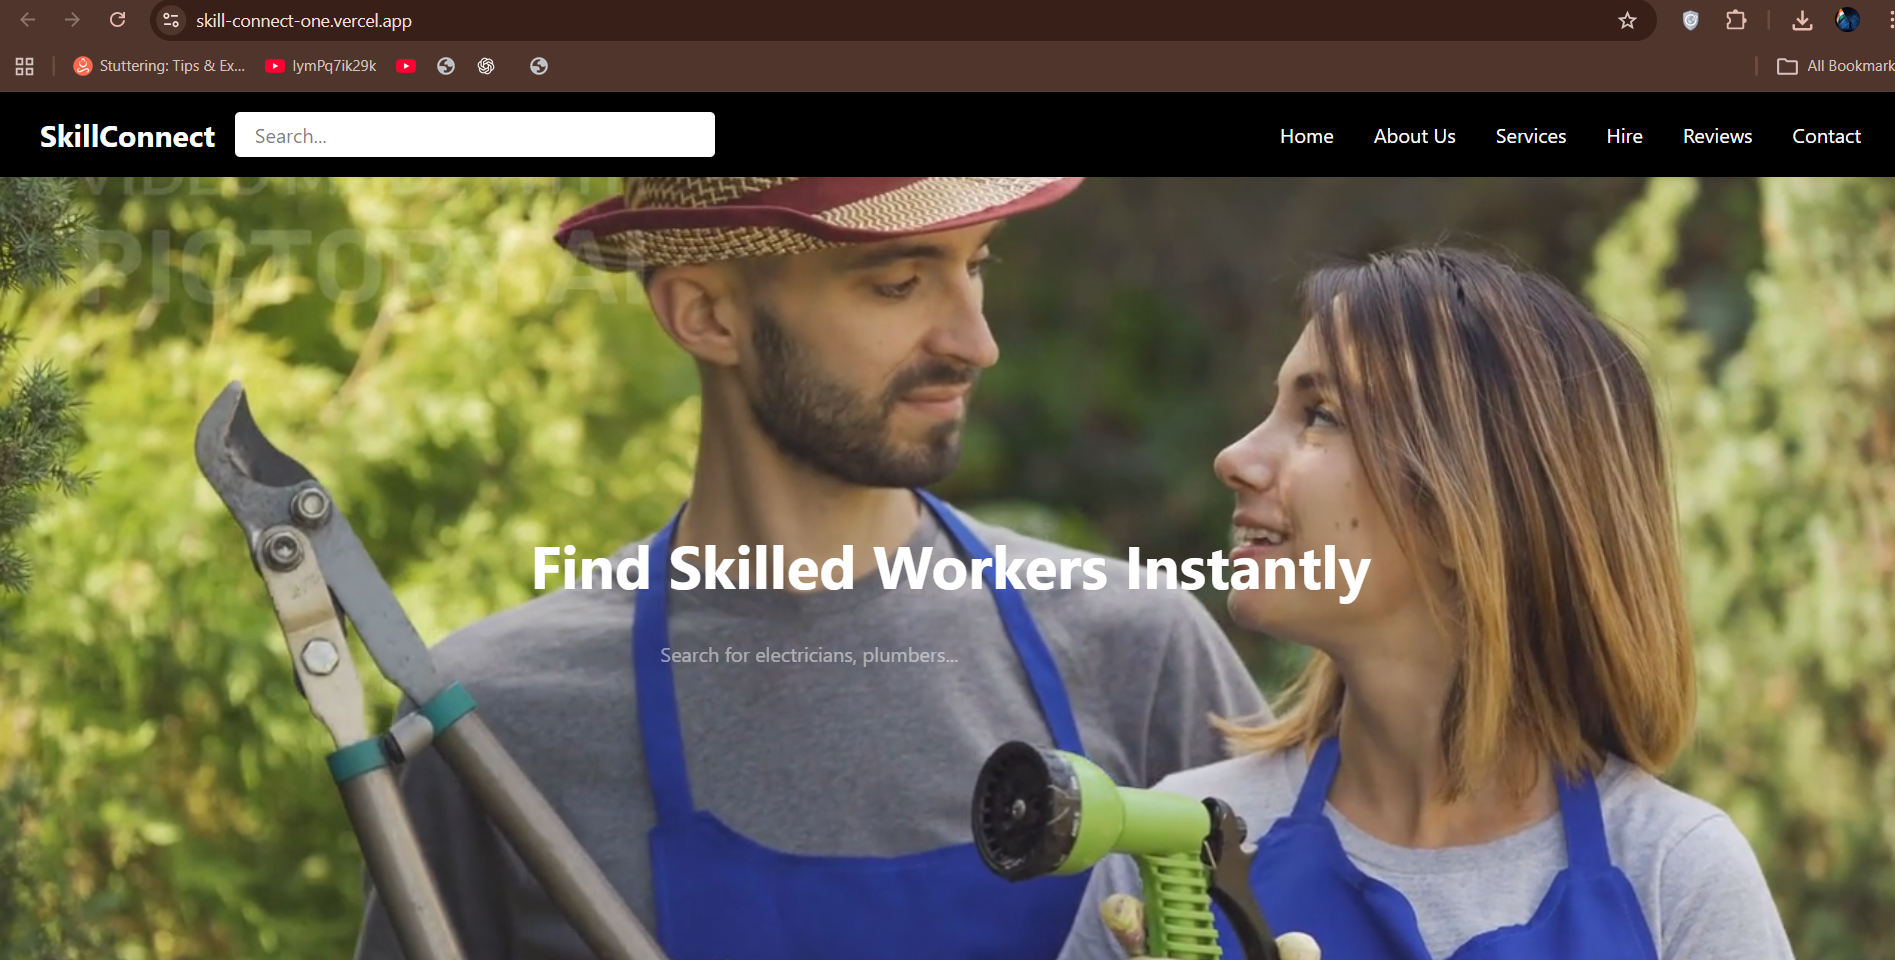
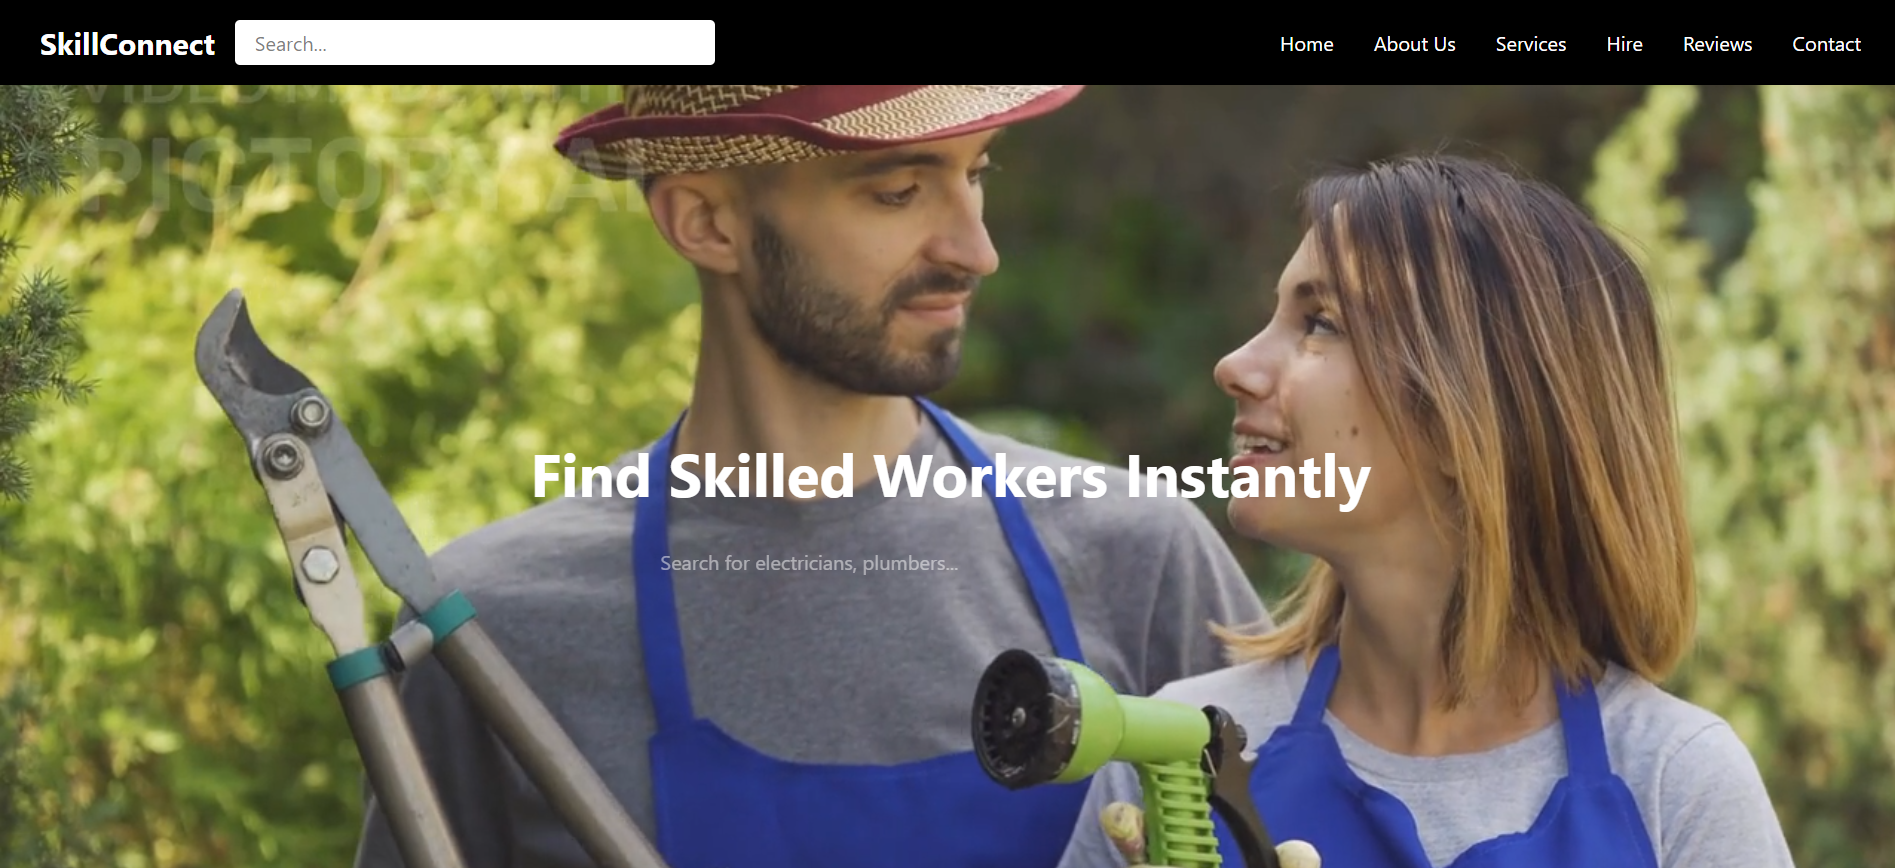
Update portfolio achievements and resume

diff --git a/src/data/portfolioData.js b/src/data/portfolioData.js
@@ -175,7 +175,7 @@ export const contentCreation = {
     {
 
       title : "SHREYA : AI WOMEN'S SAFETY SYSTEM",
-      description: "An AI-powered women’s safety platform featuring emergency SOS alerts, real-time live location sharing, trusted guardian notifications, nearby emergency contacts assistance for enhanced women security.",
+      description: "An AI-powered women’s safety platform featuring emergency SOS alerts, real-time live location sharing, trusted guardian notifications, emergency contacts assistance for enhanced women security.",
        stats: "IN PROGRESS",
       icon : "🙅♀️"
     },
@@ -227,12 +227,12 @@ export const leadershipList = [
     role: "Bootcamp Graduate",
     badge: "Innovation"
   },
-  {
-    title: "Event Coordinator & Anchoring – SPANDAN 2K24",
-    description: "Spearheaded event coordination and captivated large audiences as the lead stage anchor, combining confident public speaking with meticulous execution to deliver a seamless summit experience.",
-    role: "Stage Anchor & Coordinator",
-    badge: "ANCHOR"
-  }
+ {
+  title: "Techfest – IIT Bombay",
+  description: "Participated in India's premier science and technology festival, gaining exposure to emerging technologies, innovation, and industry-led technical sessions while engaging with a national community of innovators.",
+  role: "TEAM LEAD",
+  badge: "TECHFEST"
+}
 ];
 
 // Brand New Internships Data